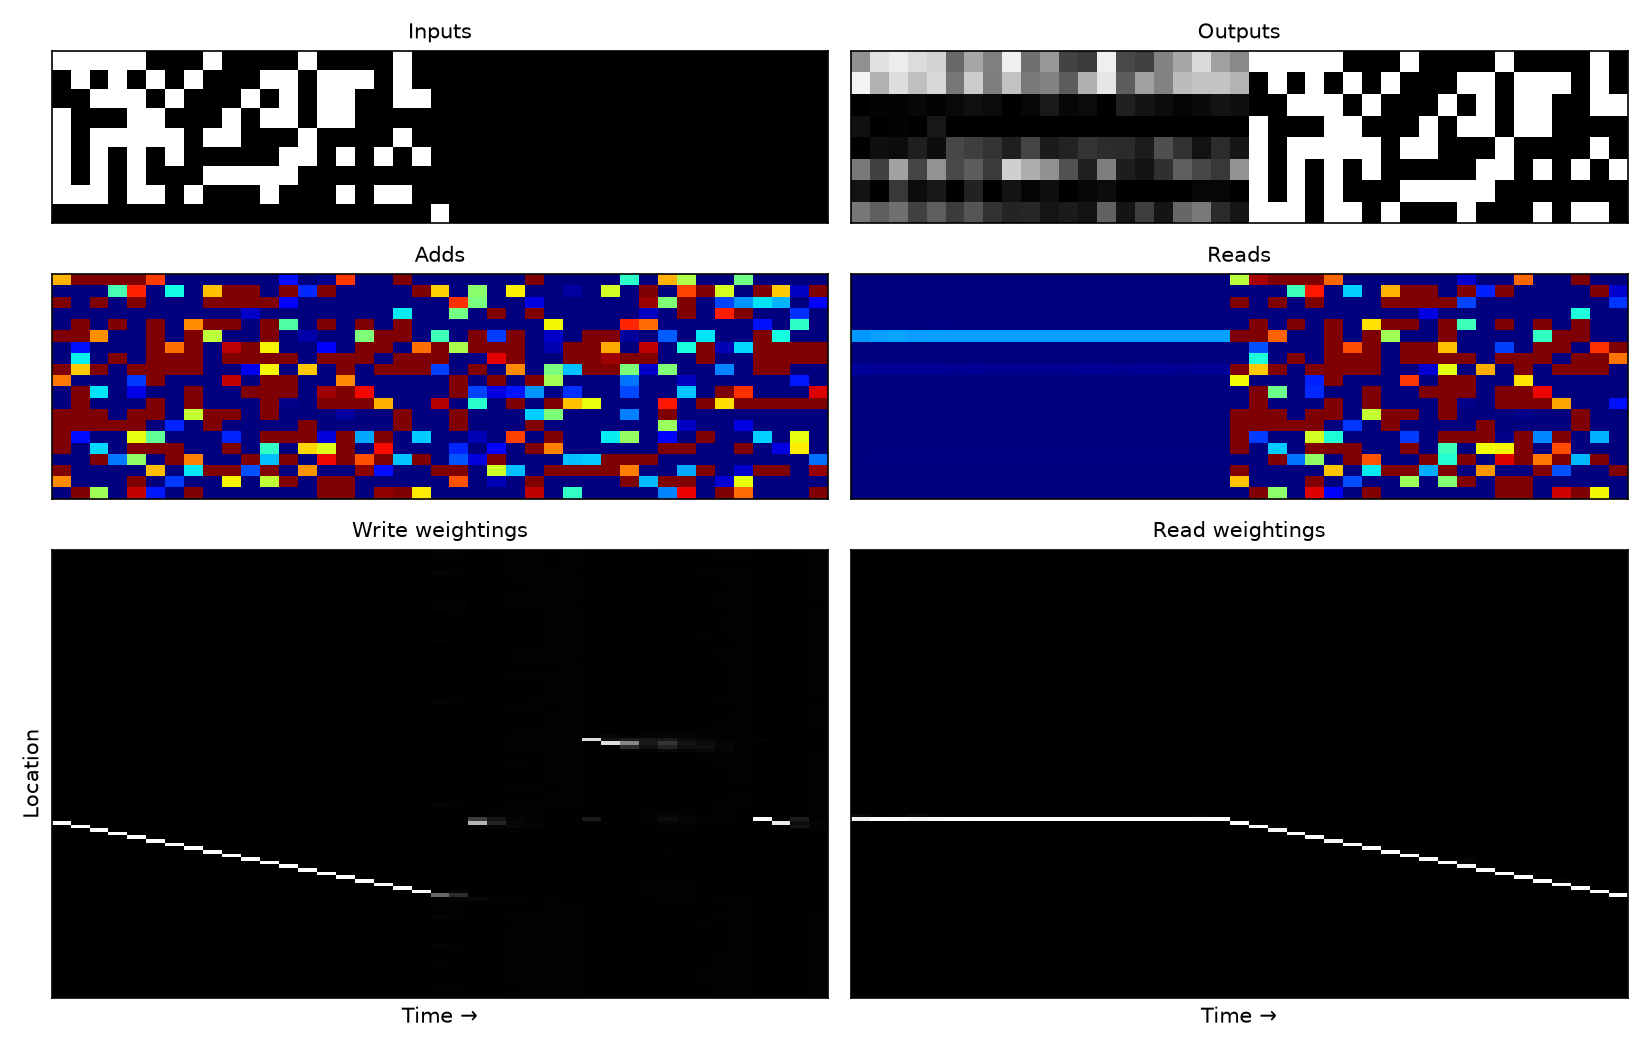
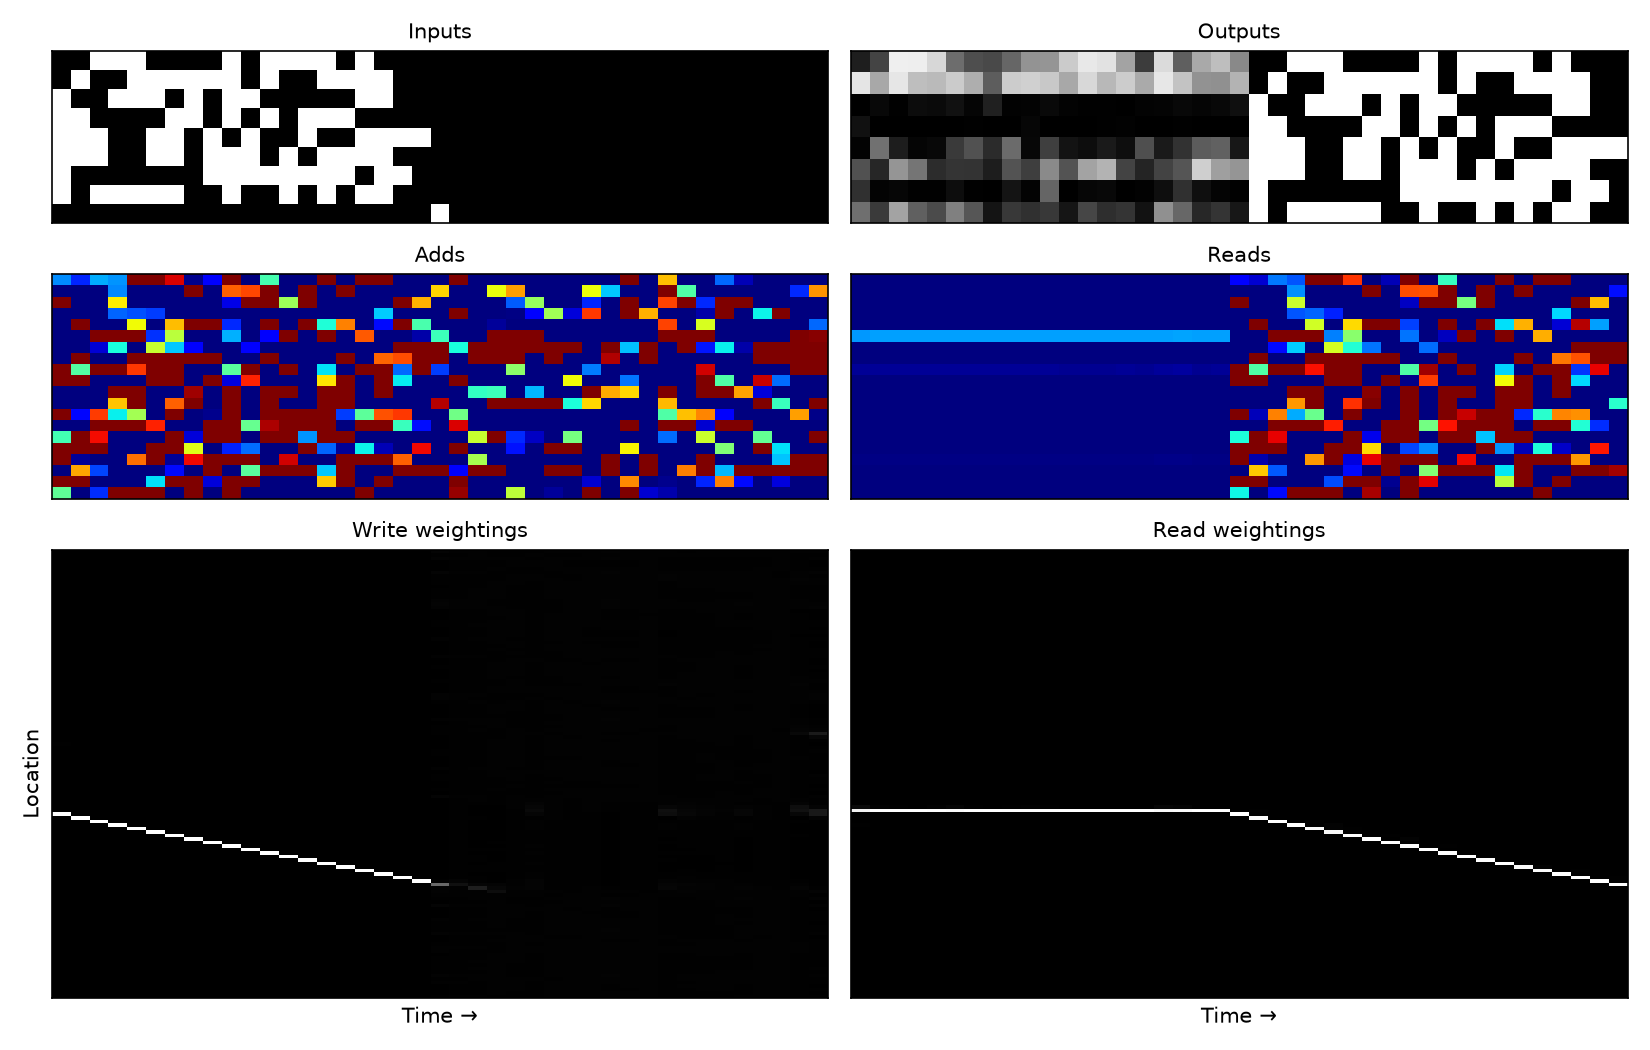
Delete dead code
Three things no longer earning their place:

  try_it.py and the `try` command - a copy-only novelty that let you
  type your own 8-bit vectors. The plot and memory commands cover what
  it showed.

  The generic plot_memory_use in src/plots.py. It was the fallback for a
  task with no memory figure of its own, and both tasks now have one, so
  nothing dispatched to it.

  The legacy checkpoint reshaping in load_model, which renamed
  controller.cell.* and unsqueezed 2-dim starting states. Checked all 15
  checkpoints on disk: none needs it.

pyflakes is clean over the whole codebase and 29 tests pass.

diff --git a/main.py b/main.py
@@ -3,8 +3,6 @@
     uv run main.py demo                        run one batch through an untrained model
     uv run main.py train --model ntm-ff        train (also: lstm, ntm-lstm)
     uv run main.py plot --model ntm-ff         draw Figures 3 and 5 into figures/
-    uv run main.py try 10110010 01100101 ...   copy your own 8-bit vectors
-    uv run main.py try --random 30             or a random sequence of that length
     uv run main.py memory --model ntm-ff       the paper's Figure 6: what the heads read and wrote
     uv run main.py compare                     all three learning curves on one plot (Figure 3)
     uv run main.py all                         train all three and keep every figure up to date
@@ -22,8 +20,7 @@ import time
 import torch
 
 from src.models.build import MODELS, build_model
-from src.plots import plot_all_learning_curves, plot_learning_curve, plot_memory_use, task_plot
-from src.tasks.copy.try_it import parse_vectors, try_sequence
+from src.plots import plot_all_learning_curves, plot_learning_curve, task_plot
 from src.tasks.registry import TASKS, get_task
 from src.train import TrainConfig, train
 
@@ -66,12 +63,9 @@ def draw_every_figure(task_name):
         plot_learning_curve(config.log_path, f"{prefix}_learning_curve.png", label=model)
         if generalisation:
             generalisation(model, config.checkpoint_path, f"{prefix}_generalisation.png")
-        if model.startswith("ntm"):
-            if memory_use:  # copy pins the sequence length so the diagonal matches the paper
-                for length in (20, 40):
-                    memory_use(model, config.checkpoint_path, f"{prefix}_memory_length{length}.png", length)
-            else:  # every other task gets the generic version on one of its own examples
-                plot_memory_use(task_name, model, config.checkpoint_path, f"{prefix}_memory.png")
+        if model.startswith("ntm") and memory_use:
+            for length in (20, 40):
+                memory_use(model, config.checkpoint_path, f"{prefix}_memory_length{length}.png", length)
     logs = {model: TrainConfig(model=model, task=task_name).log_path for model in MODELS}
     plot_all_learning_curves(logs, f"{figure_dir(task_name)}/learning_curves.png")
 
@@ -111,7 +105,7 @@ def train_all(task_name, sequences, batch_size, refresh, seed=TrainConfig.seed):
 def main():
     parser = argparse.ArgumentParser(description="NTM and LSTM on the paper's tasks")
     commands = parser.add_subparsers(dest="command", required=True)
-    for name in ["demo", "train", "plot", "try", "memory", "compare", "all"]:
+    for name in ["demo", "train", "plot", "memory", "compare", "all"]:
         command = commands.add_parser(name)
         command.add_argument("--model", choices=list(MODELS), default="lstm")
         command.add_argument("--task", choices=list(TASKS), default="copy")
@@ -122,8 +116,6 @@ def main():
     commands.choices["train"].add_argument("--device", choices=["cpu", "cuda"], default="")
     commands.choices["train"].add_argument("--compile", action="store_true", help="torch.compile: faster per step after a slow warmup")
     commands.choices["train"].add_argument("--threads", type=int, default=TrainConfig.threads)
-    commands.choices["try"].add_argument("vectors", nargs="*", help="8-bit vectors like 10110010")
-    commands.choices["try"].add_argument("--random", type=int, help="use a random sequence of this length")
     commands.choices["memory"].add_argument("--length", type=int, default=20, help="sequence length to trace")
     commands.choices["all"].add_argument("--sequences", type=int, default=TrainConfig.total_sequences)
     commands.choices["all"].add_argument("--batch-size", type=int, default=TrainConfig.batch_size)
@@ -178,24 +170,11 @@ def main():
         if not args.model.startswith("ntm"):
             raise SystemExit("memory plots need an NTM: --model ntm-ff or ntm-lstm")
         memory_use = task_plot(args.task, "plot_memory_use")
-        if memory_use:  # copy pins the sequence length so the diagonal matches the paper's figure
-            out = f"{prefix}_memory_length{args.length}.png"
-            memory_use(args.model, config.checkpoint_path, out, args.length)
-        else:
-            out = f"{prefix}_memory.png"
-            plot_memory_use(args.task, args.model, config.checkpoint_path, out)
+        if not memory_use:
+            raise SystemExit(f"{args.task} has no memory figure")
+        out = f"{prefix}_memory_length{args.length}.png"
+        memory_use(args.model, config.checkpoint_path, out, args.length)
         print(f"saved {out}")
-    elif args.command == "try":
-        if args.task != "copy":
-            raise SystemExit("`try` is the copy task's own command: use --task copy")
-        if args.random:
-            target = torch.randint(0, 2, (1, args.random, 8)).float()
-        elif args.vectors:
-            target = parse_vectors(args.vectors)
-        else:
-            raise SystemExit("Give some 8-bit vectors (e.g. 10110010 01100101) or --random LENGTH")
-        try_sequence(args.model, config.checkpoint_path, target, f"{prefix}_try.png")
-        print(f"saved {prefix}_try.png")
 
 
 if __name__ == "__main__":

diff --git a/src/plots.py b/src/plots.py
@@ -17,7 +17,7 @@ from src.tasks.copy import plots as copy_plots
 # Task name -> the module drawing that task's own figures. A module may define
 # plot_generalisation(model_name, checkpoint_path, out_path) and
 # plot_memory_use(model_name, checkpoint_path, out_path, length); a task with neither still
-# trains and still gets its learning curves.
+# trains and still gets its learning curves, which every task shares.
 TASK_PLOTS = {"copy": copy_plots, "associative-recall": associative_recall_plots}
 
 
@@ -126,60 +126,6 @@ def plot_all_learning_curves(log_paths: dict, out_path: str, chunk: int = 10_000
     full.set_title("Whole run")
     paper.set_ylim(0, 10)
     paper.set_title("Same scale as the paper's Figure 3")
-    fig.tight_layout()
-    fig.savefig(out_path, dpi=150)
-    plt.close(fig)
-
-
-def plot_memory_use(task_name: str, model_name: str, checkpoint_path: str, out_path: str):
-    """Figure 6 of the paper, for any task: what the heads did, timestep by timestep.
-
-    Left column: the input, the vectors written to memory, and the write weightings. Right column:
-    the output, the vectors read back, and the read weightings. A model that has learned to use
-    memory shows sharp weightings that move over time; one that has not shows a smear.
-
-    The copy task overrides this with its own version, which pins the sequence length so the
-    diagonal is easy to compare against the paper's figure.
-    """
-    import torch
-
-    from src.models.build import load_model
-    from src.tasks.registry import get_task
-
-    task = get_task(task_name)
-    model = load_model(model_name, checkpoint_path, task, task_name)
-    x, _, _ = task.batch(1)
-    trace = {}
-    with torch.no_grad():
-        outputs = torch.sigmoid(model(x, trace=trace)[0])
-
-    write_w = torch.stack(trace["write_weightings"], dim=1)
-    read_w = torch.stack(trace["read_weightings"], dim=1)
-    adds = torch.stack(trace["adds"], dim=1)
-    reads = torch.stack(trace["reads"], dim=1)
-
-    used = (write_w.max(dim=1).values + read_w.max(dim=1).values) > 0.01
-    rows = used.nonzero().flatten()
-    window = slice(max(0, int(rows.min()) - 2), int(rows.max()) + 3) if len(rows) else slice(0, 40)
-
-    fig, axes = plt.subplots(3, 2, figsize=(11, 7), gridspec_kw={"height_ratios": [1, 1.3, 2.6]})
-    panels = [
-        ("Inputs", x[0].T, "gray", axes[0, 0]),
-        ("Outputs", outputs.T, "gray", axes[0, 1]),
-        ("Adds", adds, "jet", axes[1, 0]),
-        ("Reads", reads, "jet", axes[1, 1]),
-        ("Write weightings", write_w[window], "gray", axes[2, 0]),
-        ("Read weightings", read_w[window], "gray", axes[2, 1]),
-    ]
-    for title, image, cmap, ax in panels:
-        ax.imshow(image, cmap=cmap, aspect="auto", interpolation="nearest", vmin=0, vmax=1)
-        ax.set_title(title, fontsize=10)
-        ax.set_xticks([])
-        ax.set_yticks([])
-    axes[2, 0].set_ylabel("Location")
-    for ax in (axes[2, 0], axes[2, 1]):
-        ax.set_xlabel("Time \u2192")
-    fig.suptitle(f"{task_name}: {model_name} memory use", fontsize=11)
     fig.tight_layout()
     fig.savefig(out_path, dpi=150)
     plt.close(fig)

diff --git a/src/models/build.py b/src/models/build.py
@@ -54,17 +54,6 @@ def build_model(name, input_size, output_size, task_name="copy"):
 def load_model(name, checkpoint_path, task, task_name="copy"):
     """The trained model, ready for the plots: same shape as the run that saved it."""
     model = build_model(name, task.INPUT_SIZE, task.OUTPUT_SIZE, task_name)
-    state = torch.load(checkpoint_path, map_location="cpu")
-
-    # Checkpoints saved before the controller could stack layers hold (1, hidden) starting states
-    # where it now expects (layers, 1, hidden). Reshape them rather than lose the run.
-    for key in ("controller.h0", "controller.c0"):
-        if key in state and state[key].dim() == 2:
-            state[key] = state[key].unsqueeze(0)
-    for key in list(state):
-        if key.startswith("controller.cell."):
-            state[key.replace("controller.cell.", "controller.cells.0.")] = state.pop(key)
-
-    model.load_state_dict(state)
+    model.load_state_dict(torch.load(checkpoint_path, map_location="cpu"))
     model.eval()
     return model

diff --git a/README.md b/README.md
@@ -42,8 +42,9 @@ uv run main.py train --model ntm-ff                # one model on its own
 uv run main.py plot --model ntm-ff                 # learning curve and generalisation
 uv run main.py compare                             # all three curves on one plot
 uv run main.py memory --model ntm-ff --length 40   # write and read weightings over time
-uv run main.py try --model ntm-ff 10110010 01100101
 ```
+
+Every command takes `--task`, which defaults to copy: `--task associative-recall` runs the other one.
 
 On a GPU each training step replays as a single CUDA graph, one captured per sequence length,
 which is what makes a GPU worth using here: eager, the NTM launches a few hundred tiny kernels per
